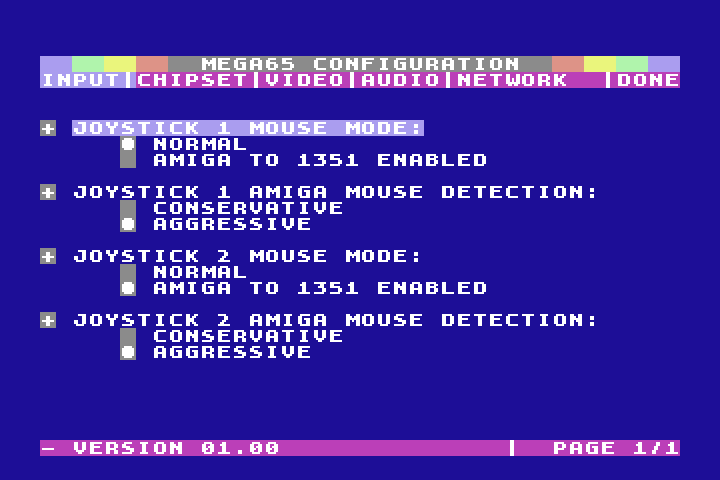
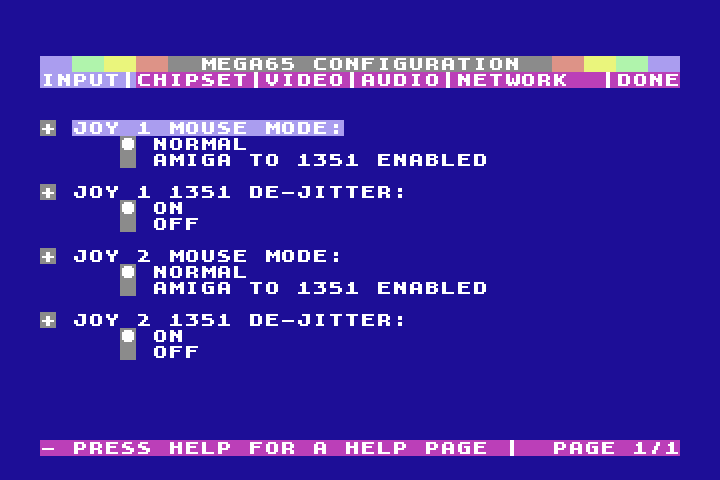
User Guide 2nd ed. v0.96 release updates, text polish

diff --git a/transferring-files.tex b/transferring-files.tex
@@ -6,11 +6,13 @@
 
 While there is plenty of fun to be had writing your own programs for the MEGA65, eventually you will want to run programs written by others. You may also want to back up your MEGA65 programs to your PC for safe keeping.
 
-You can copy D81 virtual disk images to your MEGA65-formatted SD card using any PC, without any special tools or software. Your PC will recognize the data region of the SD card as a FAT32 partition. If you use this method, be aware that some PC operating systems may have unwanted side effects, such as fragmentation of SD card files, or extraneous files created by macOS Finder. These effects are harmless to the data, but may require maintenance to keep the card useful in the MEGA65.\footnote{If the MEGA65 reports a fragmented file, you can use a PC disk defragmentation tool on the data partition. Alternatively, you can copy all files off of the SD card to the PC, re-format the SD card in the MEGA65, then copy the files back from the PC.}
-
 The fastest and most reliable way to transfer files between your PC and your MEGA65 is with an Ethernet cable.\index{Networking!Ethernet} You connect one end of the cable to the RJ45 jack on the rear of the MEGA65. You can connect the other end to your local area network (LAN) router or switch, or connect it directly to your PC. You use software on your PC to initiate file transfers, in either direction: from the PC to the MEGA65, or from the MEGA65 to the PC.
 
-It is also possible to transfer files using a JTAG or UART Serial interface connected to the main board. This is an advanced technique and is not described in this User's Guide. Most people will prefer the Ethernet method.\footnote{JTAG or UART Serial hardware provides access to a debugging interface that may be useful to some programmers. JTAG is also useful for developing FPGA cores. For more information, see the {\it MEGA65 Developer's Guide.}}
+Alternatively, you can copy D81 virtual disk images to your MEGA65-formatted SD card using any PC with an SD card reader, without any other special tools or software. Your PC will recognize the data region of the SD card as a FAT32 partition. If you use this method, be aware that some PC operating systems may have unwanted side effects, such as fragmentation of SD card files, or extraneous files created by macOS Finder. These effects are harmless to the data, but may require maintenance to keep the card useful in the MEGA65. If the MEGA65 reports a fragmented file, you can use a PC disk defragmentation tool on the data partition. Alternatively, you can copy all files off of the SD card to the PC, re-format the SD card in the MEGA65, then copy the files back from the PC.
+
+It is also possible to transfer files using a JTAG or UART Serial interface connected to the main board. This is an advanced technique and is not described in this User's Guide. JTAG or UART Serial hardware provides access to a debugging interface that may be useful to some programmers. JTAG is also useful for developing FPGA cores. For more information, see the {\it MEGA65 Developer's Guide.}
+
+Most people will prefer the Ethernet method. This chapter describes how to do this.
 
 \section{Understanding Networking}
 
@@ -18,7 +20,7 @@ The MEGA65 can use Ethernet to connect to or accept connections from other compu
 
 The MEGA65 Ethernet hardware presents a Media Access Control (MAC) address to the local network.\index{Networking!MAC address} Unlike other Ethernet hardware, the MEGA65's MAC address is not assigned at the factory: it is set in the Configuration Utility. (See chapter \vref{cha:configuringyourmega}.)
 
-To transfer files, you instruct the MEGA65 to make itself available for incoming connections, then use M65Connect (or another tool, such as \texttt{mega65\_ftp}) on your PC to initiate a connection. Your PC's operating system may prompt for permission to grant the tool access to the network when you run it for the first time. The tool uses UDP port 4510 to establish the initial connection with the MEGA65, and uses a self-assigned IPv6 address created from the MEGA65's MAC address for the file transfer session. This requires that IPv6 be enabled on the PC's network interface, which is the default in most cases.
+To transfer files, you instruct the MEGA65 to make itself available for incoming connections, then use the M65Connect app (or another tool, such as \texttt{mega65\_ftp}) on your PC to initiate a connection. Your PC's operating system may prompt for permission to grant the tool access to the network when you run it for the first time. The tool uses UDP port 4510 to establish the initial connection with the MEGA65, and uses a self-assigned IPv6 address created from the MEGA65's MAC address for the file transfer session. This requires that IPv6 be enabled on the PC's network interface, which is the default in most cases.
 
 As an alternative to connecting the MEGA65 to your local network, if your PC has an Ethernet jack, you can connect your MEGA65 directly to your PC with an Ethernet cable. This forms a small local network with no access to the Internet. The procedure for transferring files is the same with a direct connection as with a local network connection.
 
@@ -45,16 +47,19 @@ The command-line tools are in a sub-folder named ``M65Connect Resources,'' such 
 
 \subsection{M65Connect for macOS}
 
-The macOS version of M65Connect is a Mac application bundle: {\bf M65Connect.app}. As with most open source software, macOS does not recognize it as ``signed'' by the developer, and macOS will refuse to run it. To run the application for the first time:
+The macOS version of M65Connect is a Mac application bundle: {\bf M65Connect.app}. As with most open source software, macOS does not recognize it as ``signed'' by the developer, and macOS will refuse to run it. You will need to remove the ``quarantine'' attribute to run the application.
+
+In most versions of macOS, the best way to remove the quarantine attribute is with a Terminal command:
 
 \begin{enumerate}
-\item Right-click on the {\bf M65Connect.app} icon. In the pop-up menu, select ``Open.'' A dialog will open.
-\item Click the ``Open'' button. The application will open.
+\item Move the M65Connect app to your Applications folder.
+\item Open the Terminal app, included with macOS. This can be found in the Applications folder, in a sub-folder named Utilities.
+\item Enter this command: {\tt xattr -cr /Applications/M65Connect.app}
 \end{enumerate}
 
-On subsequent runs, you can double-click the icon as with any other application.
+You can now double-click the M65Connect app to run it.
 
-The command-line tools are inside the application bundle directory, such as: {\tt M65Connect.app/Contents/mega65\_ftp.osx}
+The command-line tools are inside the application bundle directory, such as: {\tt /Applications/M65Connect.app/Contents/mega65\_ftp.osx}
 
 \subsection{M65Connect for Linux}
 
@@ -69,12 +74,12 @@ By default, the MEGA65 ignores all attempts by other computers to connect to it 
 
 To transfer files with M65Connect, you must set the MEGA65 to listen for incoming connection attempts from M65Connect. This requires two steps:
 
-\begin{itemize}
+\begin{enumerate}
 \item Set the DIP switch \#2 on the main board to the ``on'' position.
-\item Enable a network listening session by pressing this key combination: \specialkey{SHIFT} + \megakey{\pounds}
-\end{itemize}
+\item Enable a network listening session by pressing this key combination: \\ \specialkey{SHIFT} + \megakey{\pounds}
+\end{enumerate}
 
-To set the DIP switch,\index{DIP switches} open the case, as described in \vref{cha:setup}. Locate the DIP switches on the main board, then set DIP switch \#2 to the ``on'' position.
+To set the DIP switch,\index{DIP switches} open the case, as described in \vref{cha:setup}. Locate the DIP switches on the main board, then set DIP switch \#2 to the ``on'' position. Look for markings on the switches to identify switch \#2 and the ``on'' direction.
 
 \begin{center}
 \includegraphics[width=\linewidth]{images/illustrations/mega65-dip2.pdf}
@@ -101,7 +106,7 @@ Starting a file transfer session resets the MEGA65. Be sure to save any programs
 \subsection{Transferring Files with M65Connect}
 \index{M65Connect Application}
 
-M65Connect detects whether a MEGA65 is listening for connections automatically. Open M65Connect, then enable the network listening session on the MEGA65. M65Connect reports a status of "Connected to MEGA65 via LAN," and several buttons including the {\bf PRG} and {\bf SD Card} buttons are enabled in the M65Connect window.
+M65Connect detects automatically whether the MEGA65 is listening for connections. Open M65Connect, then enable the network listening session on the MEGA65. M65Connect reports a status of "Connected to MEGA65 via LAN," and several buttons including the {\bf PRG} and {\bf SD Card} buttons are enabled in the M65Connect window.
 
 \begin{center}
 \includegraphics[width=\linewidth]{images/m65connect_macos.png}

diff --git a/gettingstarted.tex b/gettingstarted.tex
@@ -49,7 +49,7 @@ Normally, pressing \specialkey{RUN STOP} stops the execution of a program. Holdi
 
 Some programs override the \specialkey{RUN STOP} key and cannot be stopped in this way.
 
-You can boot your MEGA65 into the {\bf Machine Code Monitor}\index{Machine Code Monitor} by holding down \specialkey{RUN STOP} and pressing reset on the left-hand side.
+You can boot your MEGA65 into the {\bf Machine Code Monitor}\index{Machine Code Monitor} by holding down \specialkey{RUN STOP} and pressing reset on the left-hand side of the computer.
 
 \subsubsection{RESTORE}
 \index{Keyboard!RESTORE}
@@ -57,7 +57,7 @@ The computer screen can be restored to a clean state without clearing the memory
 
 Some programs override the \specialkey{RUN STOP} + \widekey{RESTORE} key combination and cannot be reset in this way.
 
-You can also enter the {\bf Freezer} by pressing and holding \widekey{RESTORE} for half to one second. You can
+You can also enter the {\bf Freezer} by pressing and holding \widekey{RESTORE} for one second, then releasing the key. You can
 read more about the Freezer on page \pageref{sec:freezer}.\index{Freezer menu}
 
 \subsubsection{THE CURSOR KEYS}
@@ -84,14 +84,14 @@ It is also possible to move the cursor up by using \specialkey{SHIFT} and \megak
 
 \subsubsection{INSerT/DELete}
 \index{Keyboard!INST DEL}
-This is the INSERT / DELETE key. When pressing \specialkey{INST\\DEL}, the character to the left is deleted, and all characters to the right are shifted one position to the left.
+The \specialkey{INST\\DEL} key, the rightmost key of the top row, is the INSERT / DELETE key. When you press \specialkey{INST\\DEL}, the character to the left is deleted, and all characters to the right are shifted one position to the left.
 
 To insert a character, hold \specialkey{SHIFT} and press \specialkey{INST\\DEL}. All the characters to the right of the cursor are shifted to the right. This allows you to type a letter, number or any other character at the newly inserted space.
 
 
 \subsubsection{CLeaR/HOME}
 \index{Keyboard!CLR HOME}
-Pressing \specialkey{CLR\\HOME} places the cursor at the top left-most position of the screen.
+The \specialkey{CLR\\HOME} is the CLEAR / HOME key. Pressing \specialkey{CLR\\HOME} places the cursor at the top left-most position of the screen.
 
 Holding down \specialkey{SHIFT} and pressing \specialkey{CLR\\HOME} clears the entire screen {\it and} places the cursor at the top left-most position of the screen.
 
@@ -108,7 +108,7 @@ Holding \megasymbolkey and pressing any key with two graphic symbols on the fron
 
 Holding \megasymbolkey and pressing any key that shows a single graphic symbol on the front prints that graphic symbol to the screen.
 
-Holding \megasymbolkey and pressing a number key switches to one of the colours in the second range, i.e., the colour that is printed at the bottom row on the front of the number key will be used.
+Holding \megasymbolkey and pressing a number key switches to a secondary colour, i.e., the colour that is printed at the bottom row on the front of the number key.
 
 Holding \megasymbolkey and pressing \specialkey{TAB} enters the Matrix Mode Debugger (refer to the {\bf MEGA65 Book} for more details).
 
@@ -136,7 +136,7 @@ Only Function keys \megakey{F1} to \megakey{F8} are available in GO64 mode.\inde
 \index{Keyboard!ALT}
 Holding \specialkey{ALT} down while pressing other keys can be used by software to perform specific functions. This feature is not available in GO64 mode.\index{Commodore 64!GO64 mode}
 
-Holding \specialkey{ALT} down while switching the MEGA65 on activates the Utility Menu.\index{Utility menu} You can format an SD card, or enter the MEGA65 Configuration Utility\index{Configuration!Utility} to select the default video mode and change other settings, or to test your keyboard.
+Holding \specialkey{ALT} down while switching the MEGA65 on activates the Utility Menu.\index{Utility menu} You can format an SD card, or enter the MEGA65 Configuration Utility\index{Configuration!Utility} to select the default video mode and change other settings, or test your keyboard.
 
 \subsubsection{CAPS LOCK}
 \index{Keyboard!CAPS LOCK}
@@ -151,13 +151,13 @@ speeding up loading from the internal disk drive or SD card, or to greatly speed
 \section{The Screen Editor}
 \label{sec:screen-editor}
 
-When you switch on your MEGA65 or reset it, the following screen will appear:\footnote{This assumes you have disabled the Intro Disk menu. If the Intro Disk menu is running, press ``X'' to exit to this screen.}
+When you switch on your MEGA65 or reset it, the following screen will appear:\footnote{This assumes you have disabled the Intro Disk menu. If the Intro Disk menu is running, press ``/'' (forward slash) to exit to this screen.}
 
 \begin{center}
 \includegraphics[width=0.9\linewidth]{images/introduction-screen/layout.png}
 \end{center}
 
-The colour bars in the top left-hand side of the screen can be used as a guide to help calibrate the colours of your display. The screen also displays the name of the system, the copyright notice, and the ROM version. The displayed date and time are taken from the internal RTC (Real-Time Clock) at the time the computer was powered on. You can set the date and time in the Configure Utility.
+The colour bars in the top left-hand side of the screen can be used as a guide to help calibrate the colours of your display. The screen also displays the name of the system, the copyright notice, and the ROM version. The displayed date and time are taken from the internal RTC (Real-Time Clock) at the time the computer was powered on. You can set the date and time in the Configuration Utility.
 
 Finally, you will see the \screentext{READY} prompt and the flashing cursor.
 
@@ -186,7 +186,7 @@ The colour that is printed at the bottom row on the front of the number key will
   \item {\bf Quote Mode}: If you were to press \megakey{"} to open a string, and then try to change
 colours, reverse text, move the cursor keys, or use the \specialkey{CLR HOME} key, instead
 of these actions instantly occurring, funny PETSCII\index{PETSCII} symbols will appear instead. This is
-due to a BASIC facility called {\it quote mode} (described further in the \textbf{MEGA65 Book}),
+due to a BASIC facility called {\it quote mode},
 which allows you to encode such actions into a string so that they can be executed at a later
 time (for example, via a {\bf PRINT} statement within your programs). To end {\it quote mode}, simply
 type another \megakey{"} to mark the end of your string.

diff --git a/settingup.tex b/settingup.tex
@@ -101,7 +101,7 @@ To connect your MEGA65 to a display:
 \index{Real-Time Clock!Installing the Battery}
 \subsection{Installing the Real-Time Clock Battery}
 
-The MEGA65 includes a Real-Time Clock, which is used to display the time and date on the startup screen, to add timestamps to files that the MEGA65 writes to your SD cards, and by the {\bf DT\$}\index{BASIC 65 Variables!DT} and {\bf TI\$}\index{BASIC 65 Variables!TI\$} BASIC65 variables. This clock uses a CR2032 coin-cell battery\footnote{Early models of MEGA65 with the "R3A" board revision used a battery of type CR1220 for the Real-Time Clock. Revisions "R6" and later, which began shipping in 2024, use a CR2032 battery.} to keep time when the MEGA65 isn't switched on. The MEGA65 does not include a battery in order to avoid issues related to shipping batteries internationally.
+The MEGA65 includes a Real-Time Clock, which is used to display the time and date on the startup screen, to add timestamps to files that the MEGA65 writes to your SD cards, and to provide the {\bf DT\$}\index{BASIC 65 Variables!DT} and {\bf TI\$}\index{BASIC 65 Variables!TI\$} BASIC variables for use in programs. This clock uses a CR2032 coin-cell battery\footnote{Early models of MEGA65 with the "R3A" board revision used a battery of type CR1220 for the Real-Time Clock. Revisions "R6" and later, which began shipping in 2024, use a CR2032 battery.} to keep time when the MEGA65 isn't switched on. The MEGA65 does not include a battery in order to avoid issues related to shipping batteries internationally.
 
 To install the battery, use a Phillips-head screwdriver to open the case, exposing the motherboard.\index{Case!Opening} The case is held together with three screws, all of which are along the bottom of the front side of the case. Once the screws have been removed, carefully lift the top half of the case. Note the orientation of the keyboard connector, then disconnect it.
 
@@ -170,7 +170,7 @@ After completing the on-boarding configuration, your MEGA65 starts the Intro Dis
 
 By default, the Intro Disk menu opens each time you switch on the computer. Once you are more familiar with the MEGA65, you may wish to disable this. Press \megakey{D} at the Intro Disk menu to disable its auto-boot feature.\index{Intro Disk!Disabling}
 
-Press \megakey{X} to exit the Intro Disk menu and access BASIC 65. With the Intro Disk auto-boot feature disabled, the MEGA65 goes directly to BASIC 65 when you switch it on.
+Press \megakey{/} (forward slash) to exit the Intro Disk menu and access BASIC 65. With the Intro Disk auto-boot feature disabled, the MEGA65 goes directly to BASIC 65 when you switch it on.
 
 \begin{center}
   \includegraphics[width=0.7\linewidth]{images/img011_final_boot_06.png}
@@ -180,4 +180,4 @@ Press \megakey{X} to exit the Intro Disk menu and access BASIC 65. With the Intr
 
 The flashing square underneath the \screentext{READY} prompt\index{READY prompt} is called the cursor. The cursor indicates that the computer is ready to accept input. Pressing keys on the keyboard will print their respective characters onto the screen. The characters will be printed at the current cursor position, and the cursor will advance to the next position after every key press.
 
-Here you can type commands, that can do things such as loading a program. You can also start entering program code!
+Here you can type commands that can do things such as loading a program. You can also start entering program code!

diff --git a/configuring.tex b/configuring.tex
@@ -35,7 +35,7 @@ The {\bf Input} page configures the mouse settings for the two peripheral ports.
 
 The MEGA65 supports the Commodore 1351 mouse,\index{Commodore 1351 mouse} the Commodore Amiga mouse,\index{Commodore Amiga mouse} or modern equivalents such as a USB mouse connected with a \href{https://retrohax.net/shop/amiga/mouster/}{mouSTer} adapter.\index{mouSTer adapter} The port must be set to the correct mouse type, where {\bf normal} refers to the 1351 mouse. If an Amiga mouse is connected while the port is in the {\bf normal} mode, it may interfere with the behavior of the keyboard.
 
-{\bf Amiga mouse detection} controls how the MEGA65 interprets Amiga mouse signals and converts them to equivalent 1351 signals when the port is in Amiga mouse mode. Some joysticks experience interference on a port with Amiga mouse mode enabled. If you notice any such interference, change this setting to {\bf conservative,} otherwise leave it set to {\bf aggressive.}
+The {\bf 1351 De-jitter} setting adjusts the sensitivity in Commodore 1351 mouse mode to avoid jitter in the mouse pointer. It is recommended to leave this set to {\bf on} when using a 1351 mouse in {\bf normal} mode.
 
 \subsection{Chipset}
 \index{Configuration!Boot Disk}
@@ -107,6 +107,7 @@ The {\bf Done} page lets you exit the Configuration Utility. If you have made ch
   \includegraphics[width=0.7\linewidth]{images/ss-m65config-save.png}
 \end{center}
 
+When you exit the Configuration Utility, you will be prompted to ``power-cycle'' the computer. Switch the computer off, then switch it on again.
 
 \section{Introducing SD Cards}
 \label{sec:introducing-sd-cards}

diff --git a/using-disks.tex b/using-disks.tex
@@ -64,10 +64,10 @@ To mount a disk image on unit 8, enter {\bf MOUNT} with the full filename in dou
 MOUNT "MEGA65.D81"
 \end{screencode}
 
-To mount a disk image to unit 9, 10, or 11, also provide the {\bf U} argument:
+To mount a disk image to unit 9, provide the {\bf U} argument:
 
 \begin{screencode}
-MOUNT "MEGA65.D81",9
+MOUNT "MEGA65.D81",U9
 \end{screencode}
 
 \subsection{Creating a New Disk Image}
@@ -100,6 +100,8 @@ CHDIR "DEMOS",U12
 MOUNT "XANADU.D81"
 \end{screencode}
 
+\underline{NOTE}: Support for sub-directories on the SD card is a work in progress. If a disk image in a sub-directory is mounted, it will become un-mounted by any action that changes the current working directory. Some features that use files may not support files in sub-directories. We hope to improve this in a future update.
+
 
 \section{Using the Internal 3.5" Floppy Disk Drive}
 
@@ -115,7 +117,7 @@ Press \megakey{0}, then use the cursor down key to: \screentext{- INTERNAL 3.5" 
 
 The \screentext{UNIT \#} for the first device can be either 8 or 10. Press \megakey{8} to toggle between these options. BASIC disk commands default to unit 8, so it is typical to use unit 8 unless you are working with multiple disks at the same time.
 
-The internal 3.5" drive can only be mounted in the first managed drive with unit numbers 8 or 10, and not the second managed drive (unit numbers 9 or 11).
+The internal 3.5" drive can only be mounted in the first managed drive with unit numbers 8 or 10. It cannot be mounted in the second managed drive (unit numbers 9 or 11).
 
 \subsection{Mounting the 3.5" Drive from BASIC}
 

diff --git a/cores-and-flashing.tex b/cores-and-flashing.tex
@@ -182,7 +182,7 @@ It is recommended to use slots 2 through 7 for alternate cores, and reserve slot
 
 You can keep more than one version of the MEGA65 ROM on the SD card. When booting the MEGA65 core, you can select one of these ROMs by holding down a number key during boot.
 
-To install alternate ROMs, copy them to the root of the SD card with a filename such as {\tt MEGA65x.ROM}, where {\tt x} is a number between 1 and 7. To boot the alternate ROM, hold the corresponding number key down while the MEGA65 core starts. If you do not hold down a number, it boots to {\tt MEGA65.ROM} by default.
+To install alternate ROMs, copy them to the root of the SD card with a filename such as {\tt MEGA65x.ROM}, where {\tt x} is a number between 0 and 7. To boot the alternate ROM, hold the corresponding number key down while the MEGA65 core starts. If you do not hold down a number, it boots to {\tt MEGA65.ROM} by default.
 
 There are several reasons you might want to keep alternate ROMs on your SD card:
 
